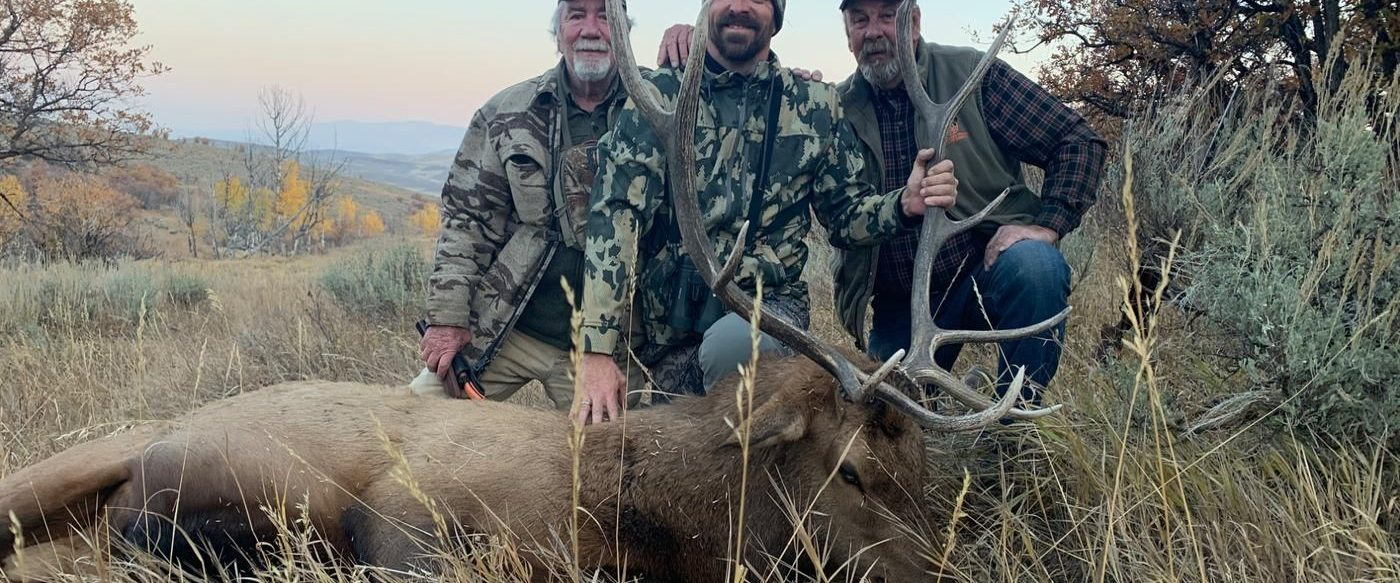
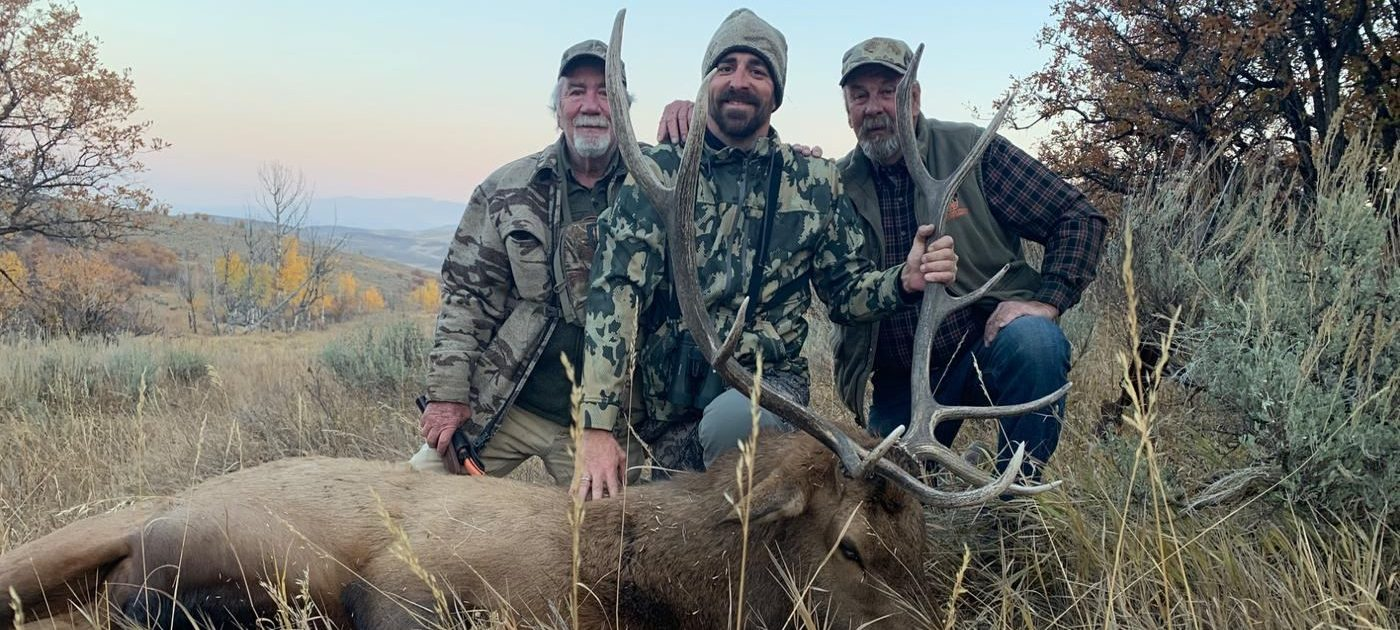
Add files via upload

diff --git a/about.html b/about.html
@@ -745,7 +745,7 @@
     .footer-bottom { flex-direction: column; gap: 12px; text-align: center; }
   }
 
-  .page-hero { position: relative; width: 100%; aspect-ratio: 24 / 10; min-height: 380px; max-height: 600px; display: flex; align-items: flex-end; overflow: hidden; }
+  .page-hero { position: relative; width: 100%; aspect-ratio: 22 / 10; min-height: 380px; max-height: 620px; display: flex; align-items: flex-end; overflow: hidden; }
   .page-hero-bg { position: absolute; inset: 0; background: linear-gradient(180deg, rgba(13,10,6,0.5) 0%, rgba(13,10,6,0.25) 35%, rgba(13,10,6,0.88) 100%), url('images/photo-01-hero.jpg') center center / cover no-repeat; }
   .page-hero-content { position: relative; padding: 0 48px 60px; max-width: 800px; animation: fadeUp 1s ease both; }
   .page-hero .hero-eyebrow { margin-bottom: 18px; }

diff --git a/antelope.html b/antelope.html
@@ -745,7 +745,7 @@
     .footer-bottom { flex-direction: column; gap: 12px; text-align: center; }
   }
 
-  .page-hero { position: relative; width: 100%; aspect-ratio: 24 / 10; min-height: 380px; max-height: 600px; display: flex; align-items: flex-end; overflow: hidden; }
+  .page-hero { position: relative; width: 100%; aspect-ratio: 17 / 10; min-height: 380px; max-height: 620px; display: flex; align-items: flex-end; overflow: hidden; }
   .page-hero-bg { position: absolute; inset: 0; background: linear-gradient(180deg, rgba(13,10,6,0.5) 0%, rgba(13,10,6,0.15) 30%, rgba(13,10,6,0.8) 100%), url('images/antelope-07-hero.jpg') center center / cover no-repeat; }
   .page-hero-content { position: relative; padding: 0 48px 64px; max-width: 760px; animation: fadeUp 1s ease both; }
   .page-hero .hero-eyebrow { margin-bottom: 18px; }

diff --git a/contact.html b/contact.html
@@ -746,7 +746,7 @@
     .footer-bottom { flex-direction: column; gap: 12px; text-align: center; }
   }
 
-  .page-hero { position: relative; width: 100%; aspect-ratio: 24 / 10; min-height: 380px; max-height: 600px; display: flex; align-items: flex-end; overflow: hidden; }
+  .page-hero { position: relative; width: 100%; aspect-ratio: 24 / 10; min-height: 380px; max-height: 620px; display: flex; align-items: flex-end; overflow: hidden; }
   .page-hero-bg { position: absolute; inset: 0; background: linear-gradient(180deg, rgba(13,10,6,0.55) 0%, rgba(13,10,6,0.35) 40%, rgba(13,10,6,0.92) 100%), url('images/photo-09-hero.jpg') center center / cover no-repeat; }
   .page-hero-content { position: relative; padding: 0 48px 48px; max-width: 800px; animation: fadeUp 1s ease both; }
   .page-hero .hero-eyebrow { margin-bottom: 16px; }

diff --git a/elk.html b/elk.html
@@ -745,7 +745,7 @@
     .footer-bottom { flex-direction: column; gap: 12px; text-align: center; }
   }
 
-  .page-hero { position: relative; width: 100%; aspect-ratio: 24 / 10; min-height: 380px; max-height: 600px; display: flex; align-items: flex-end; overflow: hidden; }
+  .page-hero { position: relative; width: 100%; aspect-ratio: 19 / 10; min-height: 380px; max-height: 620px; display: flex; align-items: flex-end; overflow: hidden; }
   .page-hero-bg { position: absolute; inset: 0; background: linear-gradient(180deg, rgba(13,10,6,0.5) 0%, rgba(13,10,6,0.15) 30%, rgba(13,10,6,0.8) 100%), url('images/elk-05-hero.jpg') center center / cover no-repeat; }
   .page-hero-content { position: relative; padding: 0 48px 64px; max-width: 760px; animation: fadeUp 1s ease both; }
   .page-hero .hero-eyebrow { margin-bottom: 18px; }

diff --git a/gallery.html b/gallery.html
@@ -746,7 +746,7 @@
     .footer-bottom { flex-direction: column; gap: 12px; text-align: center; }
   }
 
-  .page-hero { position: relative; width: 100%; aspect-ratio: 24 / 10; min-height: 380px; max-height: 600px; display: flex; align-items: flex-end; overflow: hidden; }
+  .page-hero { position: relative; width: 100%; aspect-ratio: 22 / 10; min-height: 380px; max-height: 620px; display: flex; align-items: flex-end; overflow: hidden; }
   .page-hero-bg { position: absolute; inset: 0; background: linear-gradient(180deg, rgba(13,10,6,0.5) 0%, rgba(13,10,6,0.3) 40%, rgba(13,10,6,0.9) 100%), url('images/photo-01-hero.jpg') center center / cover no-repeat; }
   .page-hero-content { position: relative; padding: 0 48px 56px; max-width: 800px; animation: fadeUp 1s ease both; }
   .page-hero .hero-eyebrow { margin-bottom: 16px; }

diff --git a/muledeer.html b/muledeer.html
@@ -745,7 +745,7 @@
     .footer-bottom { flex-direction: column; gap: 12px; text-align: center; }
   }
 
-  .page-hero { position: relative; width: 100%; aspect-ratio: 24 / 10; min-height: 380px; max-height: 600px; display: flex; align-items: flex-end; overflow: hidden; }
+  .page-hero { position: relative; width: 100%; aspect-ratio: 24 / 10; min-height: 380px; max-height: 620px; display: flex; align-items: flex-end; overflow: hidden; }
   .page-hero-bg { position: absolute; inset: 0; background: linear-gradient(180deg, rgba(13,10,6,0.5) 0%, rgba(13,10,6,0.15) 30%, rgba(13,10,6,0.8) 100%), url('images/photo-04-hero.jpg') center center / cover no-repeat; }
   .page-hero-content { position: relative; padding: 0 48px 64px; max-width: 760px; animation: fadeUp 1s ease both; }
   .page-hero .hero-eyebrow { margin-bottom: 18px; }

diff --git a/rates.html b/rates.html
@@ -44,7 +44,7 @@
   .nav-cta:hover { background: var(--gold-light); }
 
   /* PAGE HERO */
-  .page-hero { position: relative; width: 100%; aspect-ratio: 24 / 10; min-height: 380px; max-height: 600px; display: flex; align-items: flex-end; overflow: hidden; }
+  .page-hero { position: relative; width: 100%; aspect-ratio: 22 / 10; min-height: 380px; max-height: 620px; display: flex; align-items: flex-end; overflow: hidden; }
   .page-hero-bg { position: absolute; inset: 0; background: linear-gradient(to right, rgba(13,10,6,0.85) 0%, rgba(13,10,6,0.4) 50%, rgba(13,10,6,0.3) 100%), url('images/photo-01-hero.jpg') center center / cover no-repeat; }
   .page-hero-content { position: relative; padding: 0 48px; }
   .page-eyebrow { font-family: var(--font-label); font-size: 10px; font-weight: 500; letter-spacing: 0.24em; color: var(--gold); text-transform: uppercase; display: flex; align-items: center; gap: 12px; margin-bottom: 12px; }